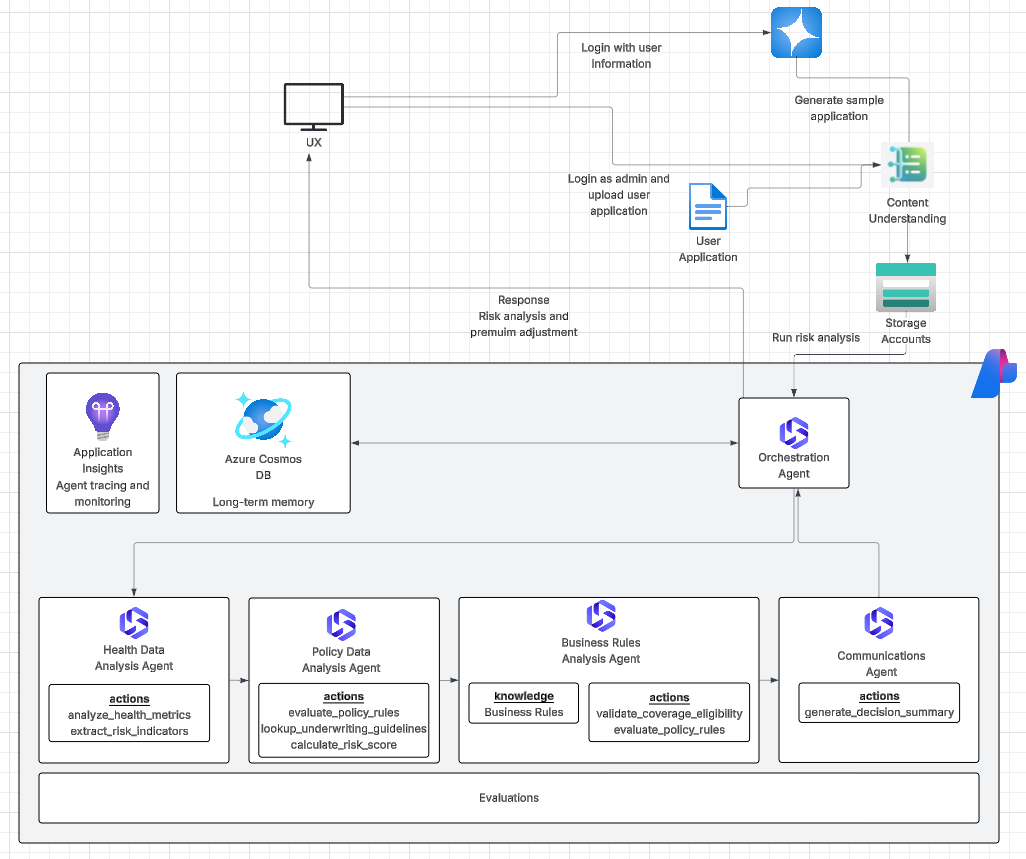
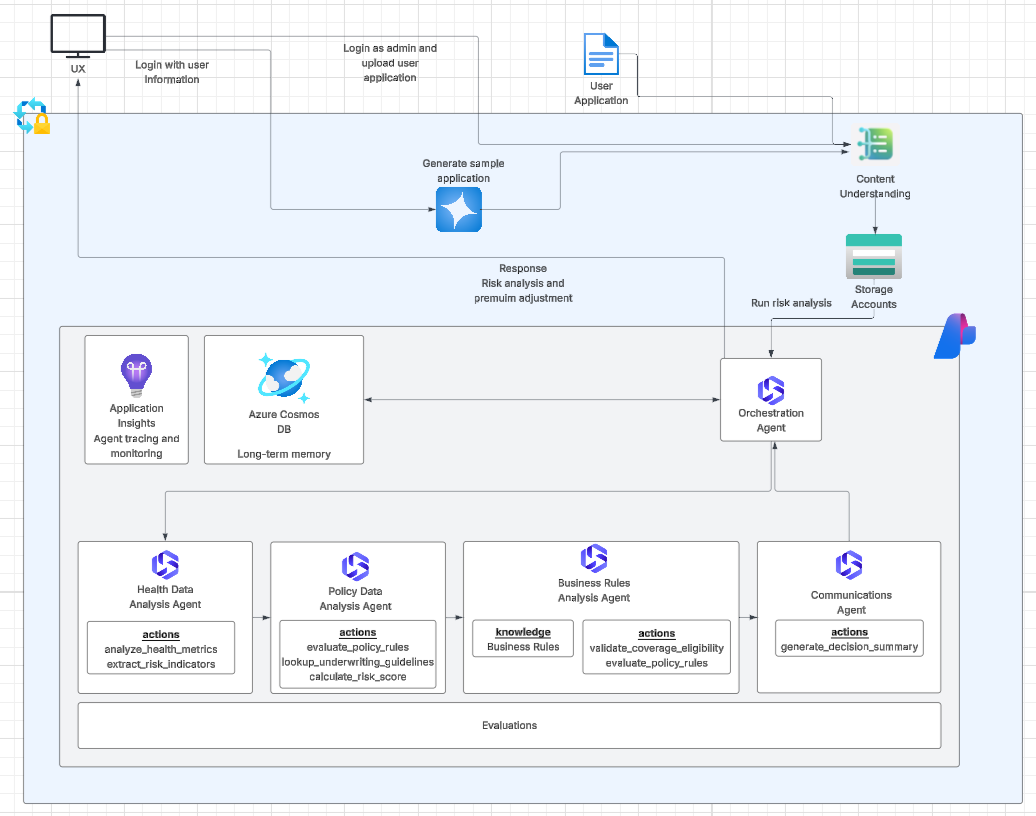
update arch and upload page ui

diff --git a/frontend/src/app/admin/page.tsx b/frontend/src/app/admin/page.tsx
@@ -937,86 +937,61 @@ export default function AdminPage() {
           >
             {isProcessing ? 'Processing...' : 'Upload & Process'}
           </button>
-        </div>
 
-        {/* Selected Application Preview */}
-        {selectedAppId && (() => {
-          const selectedApp = applications.find(a => a.id === selectedAppId);
-          if (!selectedApp) return null;
-          return (
-            <div className="bg-white rounded-xl shadow-sm border border-slate-200 p-6 lg:col-span-2">
-              <div className="flex items-center justify-between mb-4">
-                <h2 className="text-xl font-semibold text-slate-900">
-                  Selected Application
-                </h2>
-                <button
-                  onClick={() => setSelectedAppId(null)}
-                  className="text-sm text-slate-500 hover:text-slate-700"
-                >
-                  ✕ Close
-                </button>
-              </div>
-              
-              <div className="flex items-start justify-between">
-                <div className="flex-1">
-                  <div className="flex items-center gap-3 mb-2">
-                    <span className="font-mono text-lg font-semibold text-slate-900">
-                      {selectedApp.id}
-                    </span>
+          {/* View Recent Upload Button - shown after successful upload */}
+          {selectedAppId && (() => {
+            const selectedApp = applications.find(a => a.id === selectedAppId);
+            if (!selectedApp) return null;
+            return (
+              <div className="mt-4 p-4 bg-slate-50 rounded-lg border border-slate-200">
+                <div className="flex items-center justify-between">
+                  <div className="flex items-center gap-3">
+                    <div className="flex items-center gap-2">
+                      <span className="text-sm font-medium text-slate-700">Recent upload:</span>
+                      <span className="font-mono text-sm text-slate-900">{selectedApp.id}</span>
+                    </div>
                     {selectedApp.processing_status ? (
-                      <span className="px-3 py-1 text-sm rounded-full bg-amber-100 text-amber-700 flex items-center gap-2">
+                      <span className="px-2 py-0.5 text-xs rounded-full bg-amber-100 text-amber-700 flex items-center gap-1">
                         <span className="inline-block w-2 h-2 bg-amber-500 rounded-full animate-pulse"></span>
                         {selectedApp.processing_status === 'extracting' ? 'Extracting...' : 
                          selectedApp.processing_status === 'analyzing' ? 'Analyzing...' : 
                          selectedApp.processing_status}
                       </span>
                     ) : (
-                      <span className={`px-3 py-1 text-sm rounded-full ${getStatusBadge(selectedApp.status)}`}>
+                      <span className={`px-2 py-0.5 text-xs rounded-full ${getStatusBadge(selectedApp.status)}`}>
                         {selectedApp.status}
                       </span>
                     )}
                   </div>
-                  
-                  {selectedApp.external_reference && (
-                    <p className="text-sm text-slate-600 mb-1">
-                      <span className="font-medium">Reference:</span> {selectedApp.external_reference}
-                    </p>
-                  )}
-                  
-                  {selectedApp.created_at && (
-                    <p className="text-sm text-slate-500">
-                      Created: {new Date(selectedApp.created_at).toLocaleString()}
-                    </p>
-                  )}
-                  
-                  {selectedApp.summary_title && (
-                    <p className="text-sm text-slate-700 mt-2 line-clamp-2">
-                      {selectedApp.summary_title}
-                    </p>
-                  )}
-                </div>
-                
-                <div className="flex items-center gap-2 ml-4">
-                  {selectedApp.status === 'completed' && (
-                    <Link
-                      href={`/?id=${selectedApp.id}`}
-                      className="px-4 py-2 bg-emerald-600 text-white rounded-lg hover:bg-emerald-700 transition-colors flex items-center gap-2"
+                  <div className="flex items-center gap-2">
+                    {selectedApp.status === 'completed' && (
+                      <Link
+                        href={`/?id=${selectedApp.id}`}
+                        className="px-3 py-1.5 bg-emerald-600 text-white text-sm rounded-lg hover:bg-emerald-700 transition-colors flex items-center gap-2"
+                      >
+                        <FileText className="w-4 h-4" />
+                        View Application
+                      </Link>
+                    )}
+                    {selectedApp.processing_status && (
+                      <div className="flex items-center gap-2 text-amber-600">
+                        <Loader2 className="w-4 h-4 animate-spin" />
+                        <span className="text-xs font-medium">Processing...</span>
+                      </div>
+                    )}
+                    <button
+                      onClick={() => setSelectedAppId(null)}
+                      className="text-slate-400 hover:text-slate-600 p-1"
+                      title="Dismiss"
                     >
-                      <FileText className="w-4 h-4" />
-                      View Application
-                    </Link>
-                  )}
-                  {selectedApp.processing_status && (
-                    <div className="flex items-center gap-2 text-amber-600">
-                      <Loader2 className="w-5 h-5 animate-spin" />
-                      <span className="text-sm font-medium">Processing...</span>
-                    </div>
-                  )}
+                      ✕
+                    </button>
+                  </div>
                 </div>
               </div>
-            </div>
-          );
-        })()}
+            );
+          })()}
+        </div>
 
         {/* Applications List */}
         <div className="bg-white rounded-xl shadow-sm border border-slate-200 p-6">
